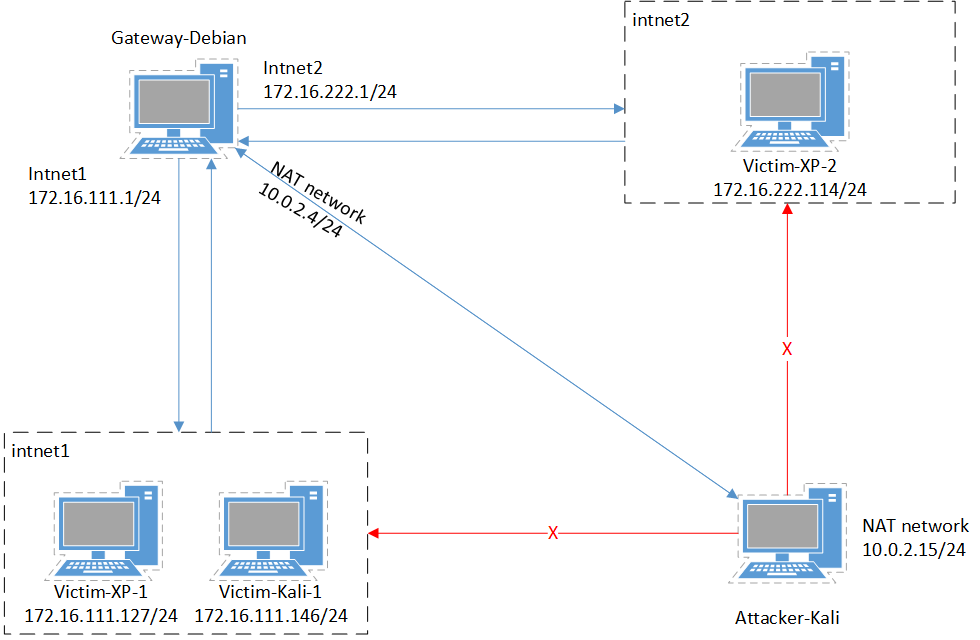
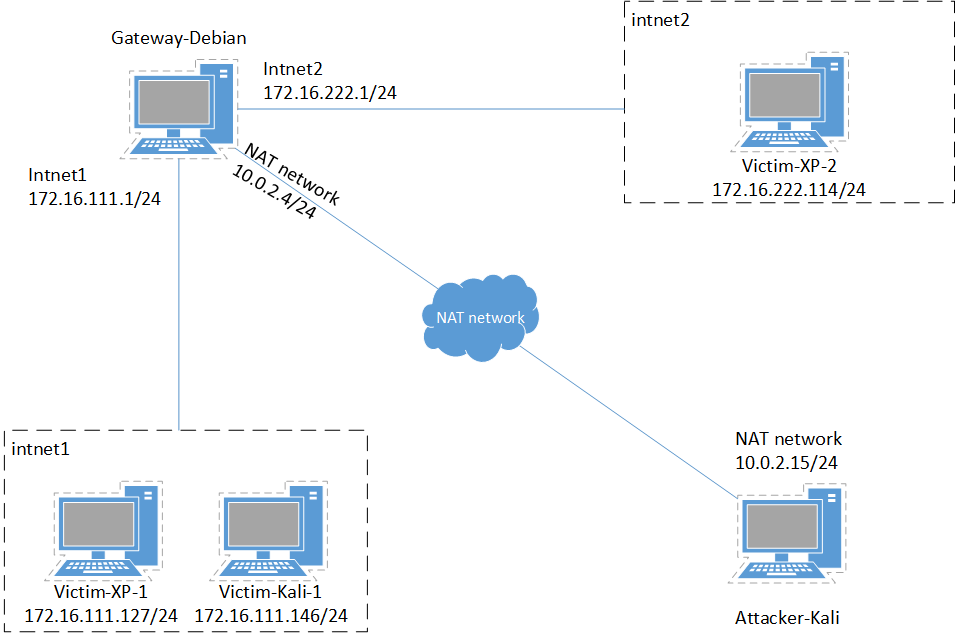
修改拓扑图、二义性表述

diff --git a/ns-0x01/README.md b/ns-0x01/README.md
@@ -96,7 +96,7 @@ NAT service|+|Port forward|+|+|Port forward
   -A POSTROUTING -o enp0s3 -s 172.16.111.0/24 -j MASQUERADE #添加到COMMIT前
   iptables-restore < iptables.rules #将规则写回iptables
   ```
-- `/etc/network/interfaces`中使用echo的方式开启IPv4端口转发, 也可以将`/etc/sysctl.conf`文件中`# net.ipv4.ip_forward=1`的注释去除再重启, 效果也是一样的。
+- 配置文件`/etc/network/interfaces`中使用`echo 1 > /proc/sys/net/ipv4/ip_forward`的方式开启IPv4端口转发, 也可以将`/etc/sysctl.conf`文件中`# net.ipv4.ip_forward=1`的注释去除再重启, 效果是一样的。
 ## 参考资料
 - [基于VirtualBox的网络攻防基础环境搭建 - 林淑琪](https://github.com/CUCCS/2018-NS-Public-jckling/blob/master/ns-0x01/%E5%9F%BA%E4%BA%8EVirtualBox%E7%9A%84%E7%BD%91%E7%BB%9C%E6%94%BB%E9%98%B2%E5%9F%BA%E7%A1%80%E7%8E%AF%E5%A2%83%E6%90%AD%E5%BB%BA.md)
 - [Windows 10 - Host Only Adapters](https://forums.virtualbox.org/viewtopic.php?f=6&t=94277)
